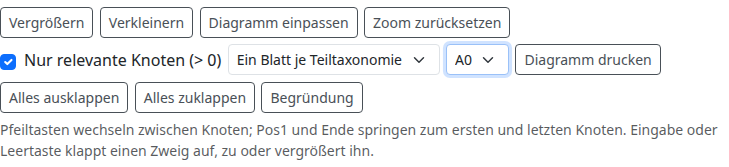
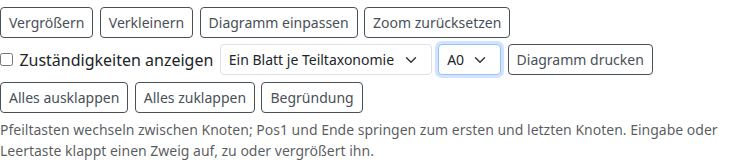
Keep relevance and print selectors within zoomed layouts

diff --git a/taxonomy-app/src/main/resources/static/css/taxonomy-ergonomics.css b/taxonomy-app/src/main/resources/static/css/taxonomy-ergonomics.css
@@ -581,8 +581,8 @@ dialog.onboarding-overlay .onboarding-card {
 .taxonomy-view-selector { display: flex; flex-wrap: wrap; justify-content: flex-start; width: fit-content; max-width: 100%; }
 .taxonomy-view-selector > .btn { flex: 0 0 auto; }
 .taxonomy-view-tools { display: flex; align-items: center; flex-wrap: wrap; gap: .5rem; min-height: 2.25rem; margin-top: .5rem; }
-#diagramRelevanceFilterGroup { display: flex; align-items: center; gap: .35rem; }
-#diagramRelevanceFilter, .tax-diagram-print-mode, .tax-diagram-print-paper { width: auto; }
+#diagramRelevanceFilterGroup { display: flex; align-items: center; flex-wrap: wrap; gap: .35rem; min-width: 0; max-width: 100%; }
+#diagramRelevanceFilter, .tax-diagram-print-mode, .tax-diagram-print-paper { width: auto; min-width: 0; max-width: 100%; }
 button.summary-layer-element { font: inherit; text-align: left; }
 button.summary-layer-element[aria-pressed="true"] { outline: 2px solid currentColor; outline-offset: 2px; }
 #summarySelectionDetails { margin-top: 1rem; padding: .75rem; border: 1px solid var(--bs-border-color); border-radius: .375rem; overflow-wrap: anywhere; }

diff --git a/taxonomy-app/src/main/resources/templates/index.html b/taxonomy-app/src/main/resources/templates/index.html
@@ -92,7 +92,7 @@
                             <select id="diagramRelevanceFilter" class="form-select form-select-sm" th:title="#{view.relevance.hint}" title="Ancestors of matching nodes remain visible for context.">
                                 <option value="all" th:text="#{view.relevance.all}">All nodes</option>
                                 <option value="hide-zero" th:text="#{view.sunburst.hide.zero}">Hide zero relevance</option>
-                                <option value="positive" th:text="#{view.relevance.positive}">Only positive scores (&gt; 0)</option>
+                                <option value="positive" th:text="#{view.relevance.positive}">Score &gt; 0</option>
                             </select>
                         </div>
                         <!-- Show/hide descriptions -->

diff --git a/docs/de/USER_GUIDE.md b/docs/de/USER_GUIDE.md
@@ -618,7 +618,7 @@ Nach Durchführung einer Analyse zeigt das Sunburst-Diagramm Heatmap-Farbverläu
 
 ![Bewertete Sunburst-Ansicht](../images/39-scored-sunburst.png)
 
-Liste, Registerkarten, Sunburst, Baum, Entscheidungskarte und Zusammenfassung verwenden dieselbe Relevanzauswahl. **Alle Knoten** zeigt die verfügbare Ansicht; **0-Relevanz ausblenden** entfernt gemessene Nullwerte und erhält unbekannte oder ausstehende Bewertungen; **Nur positive Bewertungen (> 0)** zeigt positive Treffer mit ihren übergeordneten Pfaden. Die Auswahl gilt auch für den Diagrammdruck. Ein zur Orientierung erhaltener Elternknoten ist kein zusätzlicher positiver Treffer. Die gespeicherten Bewertungen und der vollständige Katalog bleiben erhalten. Bei der ausdrücklichen Auswahl eines ausgeblendeten Suchtreffers wechselt die Ansicht zu **Alle Knoten**, damit das Suchziel erreichbar ist. Eine neue manuelle Bewertung beginnt ebenfalls mit allen Knoten.
+Liste, Registerkarten, Sunburst, Baum, Entscheidungskarte und Zusammenfassung verwenden dieselbe Relevanzauswahl. **Alle Knoten** zeigt die verfügbare Ansicht; **0-Relevanz ausblenden** entfernt gemessene Nullwerte und erhält unbekannte oder ausstehende Bewertungen; **Bewertung > 0** zeigt positive Treffer mit ihren übergeordneten Pfaden. Die Auswahl gilt auch für den Diagrammdruck. Ein zur Orientierung erhaltener Elternknoten ist kein zusätzlicher positiver Treffer. Die gespeicherten Bewertungen und der vollständige Katalog bleiben erhalten. Bei der ausdrücklichen Auswahl eines ausgeblendeten Suchtreffers wechselt die Ansicht zu **Alle Knoten**, damit das Suchziel erreichbar ist. Eine neue manuelle Bewertung beginnt ebenfalls mit allen Knoten.
 
 Während einer laufenden Analyse behalten Sunburst, Baum und Entscheidungskarte ihren Ausschnitt: Zoom, Verschiebung, Scrollposition und manuell geöffnete oder geschlossene Zweige werden bei neuen Ergebnissen wiederhergestellt. Sunburst merkt sich den geöffneten Teilbaum. Jede Ansicht und jede im Baum ausgewählte Teiltaxonomie hat ihren eigenen Zustand; auch ein Wechsel zwischen SVG- und Canvas-Darstellung erhält ihn. Wenn ein Filter den ausgewählten Knoten entfernt, wird ein noch sichtbarer Elternknoten verwendet. **Diagramm einpassen** und **Zoom zurücksetzen** ändern den Ausschnitt ausdrücklich. Eine neue Analyse oder ein neu geladener Anforderungsentwurf beginnt mit einem neuen Ansichtszustand.
 
@@ -650,7 +650,7 @@ Mit **Diagramm drucken** öffnen Sie eine eigene Druckansicht. Sie enthält die 
 
 Die Entscheidungskarte beginnt mit **Ein Blatt je Teiltaxonomie** und **A1**. Für die beiden Ganzblattlayouts wählen Sie unter **Papierformat** A4, A3, A2, A1 oder A0. Ausrichtung und Skalierung richten sich nach dem vollständigen Inhalt. Die Einstellung bleibt bei Ergebnisaktualisierungen erhalten. Alle Layouts enthalten Prozentwerte und vollständige gespeicherte Begründungen der ausgewählten Knoten. Bei sehr umfangreichen Bäumen bieten ein größeres Papierformat oder A4-Teilseiten mehr Platz für lesbare Schrift.
 
-![Diagrammoptionen mit positivem Relevanzfilter, einem Blatt je Teiltaxonomie und Papierformat A0](../images/diagram-print-controls-de.png)
+![Druckoptionen der Entscheidungskarte für ein Blatt je Teiltaxonomie in A0](../images/diagram-print-controls-de.png)
 
 *Anwendungsaufnahme nach einer deterministischen Mock-Analyse in der Entscheidungsansicht. [Aufnahmequelle](../images/documentation-screenshots.json); [Prüfumfang](../testing/stable-diagrams-and-print.md).*
 

diff --git a/docs/en/USER_GUIDE.md b/docs/en/USER_GUIDE.md
@@ -603,7 +603,7 @@ After running an analysis, the sunburst chart displays heat-mapped colour gradie
 
 ![Scored sunburst view](../images/39-scored-sunburst.png)
 
-List, Tabs, Sunburst, Tree, Decision and Summary share the same relevance selector. **All nodes** shows the available view; **Hide zero relevance** removes measured zeroes while retaining unknown or pending evaluations; **Only positive scores (> 0)** retains positive results and their ancestor paths. The selection also applies to diagram printing. An ancestor retained for orientation is not an additional positive result. Stored scores and the complete catalogue remain intact. Explicitly selecting a hidden search result switches to **All nodes** so that the selected entry is reachable. A new manual assessment also begins with all nodes.
+List, Tabs, Sunburst, Tree, Decision and Summary share the same relevance selector. **All nodes** shows the available view; **Hide zero relevance** removes measured zeroes while retaining unknown or pending evaluations; **Score > 0** retains positive results and their ancestor paths. The selection also applies to diagram printing. An ancestor retained for orientation is not an additional positive result. Stored scores and the complete catalogue remain intact. Explicitly selecting a hidden search result switches to **All nodes** so that the selected entry is reachable. A new manual assessment also begins with all nodes.
 
 During an analysis, Sunburst, Tree and Decision retain their reading position when new results arrive: zoom, pan, scroll position and manually opened or closed branches are restored. Sunburst remembers its focused subtree. Each view and selected tree taxonomy has its own state, including when the tree switches between SVG and Canvas rendering. If filtering removes the selected node, a surviving ancestor becomes the selection. **Fit diagram** and **Reset zoom** explicitly change the viewport. A new analysis or a newly loaded requirement draft begins with a fresh view state.
 
@@ -635,7 +635,7 @@ Use **Print diagram** in the diagram toolbar to open a separate print view. It c
 
 Decision starts with **One sheet per subtaxonomy** and **A1** paper. For the two full-sheet layouts, **Paper size** offers A4, A3, A2, A1 and A0. Orientation and scale follow the complete content. Result updates retain the settings. All layouts include percentages and the complete recorded reasons for selected nodes. For extensive trees, larger paper or A4 sections give the text more room.
 
-![Diagram options with the positive relevance filter, one sheet per subtaxonomy and A0 paper](../images/diagram-print-controls-en.png)
+![Decision map print options for one A0 sheet per subtaxonomy](../images/diagram-print-controls-en.png)
 
 *Application capture after a deterministic mock analysis in Decision view. [Capture source](../images/documentation-screenshots.json); [verification scope](../testing/stable-diagrams-and-print.md).*
 
